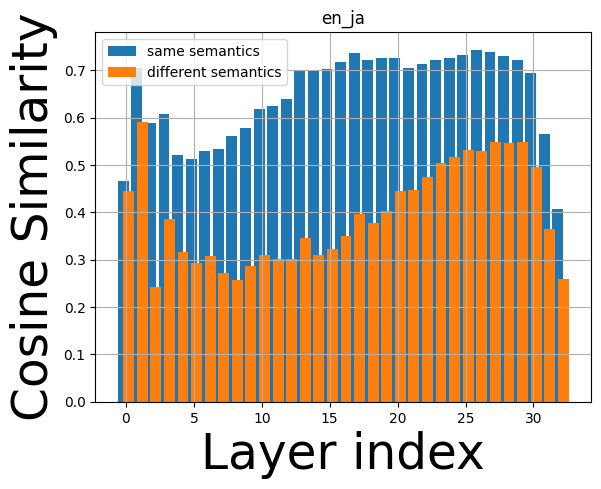
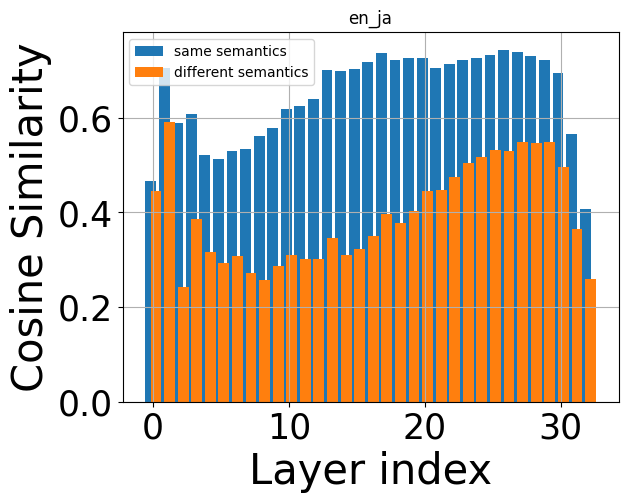
update/images

diff --git a/measure_similarities/llama3/hidden_states/hidden_state_sim.py b/measure_similarities/llama3/hidden_states/hidden_state_sim.py
@@ -94,9 +94,11 @@ def plot_hist(dict1: defaultdict(float), dict2: defaultdict(float), L2: str) -> 
     plt.bar(keys-offset, values1, alpha=1, label='same semantics')
     plt.bar(keys+offset, values2, alpha=1, label='different semantics')
 
-    plt.xlabel('Layer index', fontsize=35)
-    plt.ylabel('Cosine Similarity', fontsize=35)
+    plt.xlabel('Layer index', fontsize=30)
+    plt.ylabel('Cosine Similarity', fontsize=30)
     plt.title(f'en_{L2}')
+    plt.tick_params(axis='x', labelsize=25)  # x軸の目盛りフォントサイズ
+    plt.tick_params(axis='y', labelsize=25)
     plt.legend()
     plt.grid(True)
     plt.savefig(
